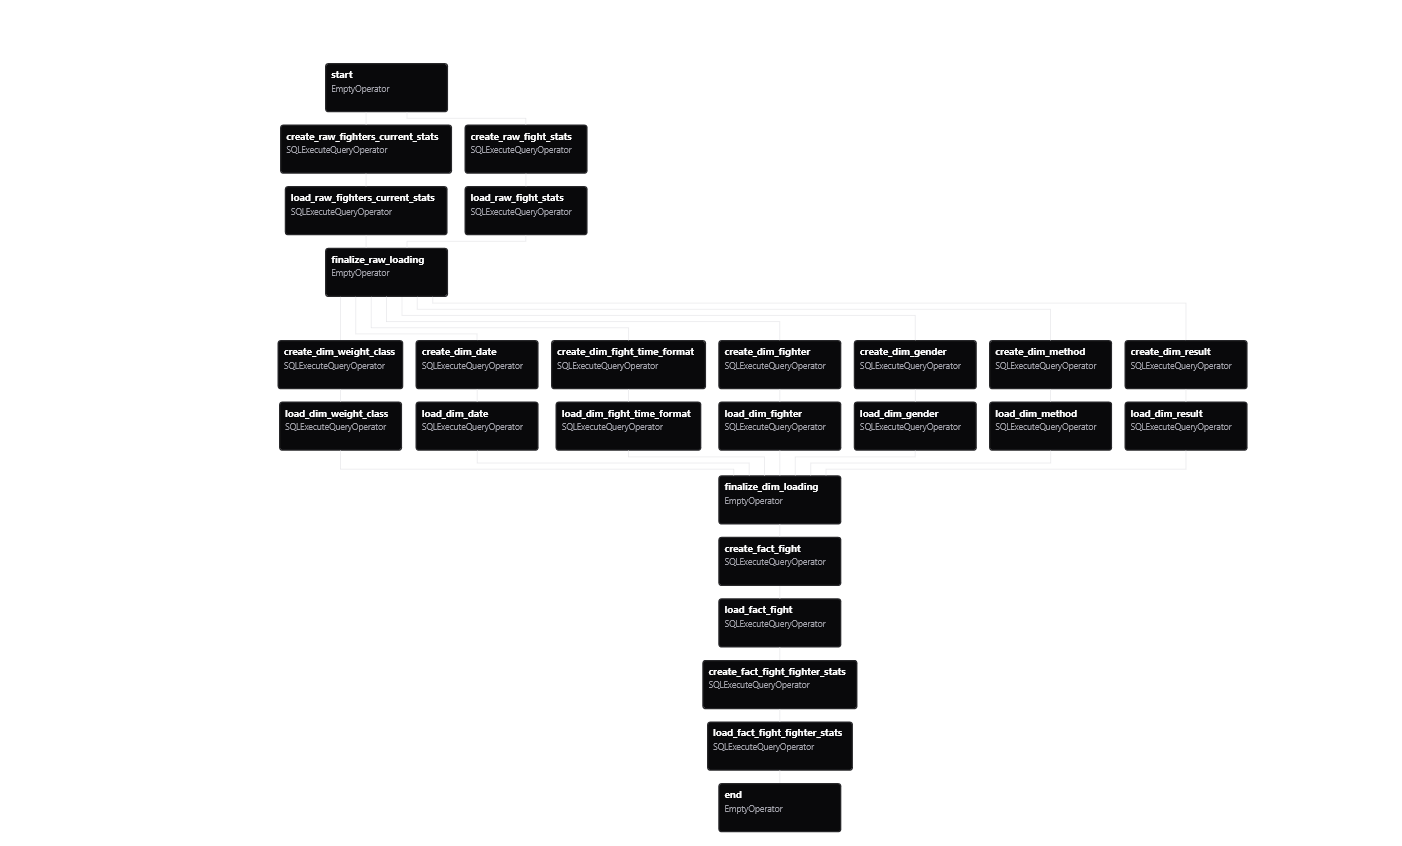
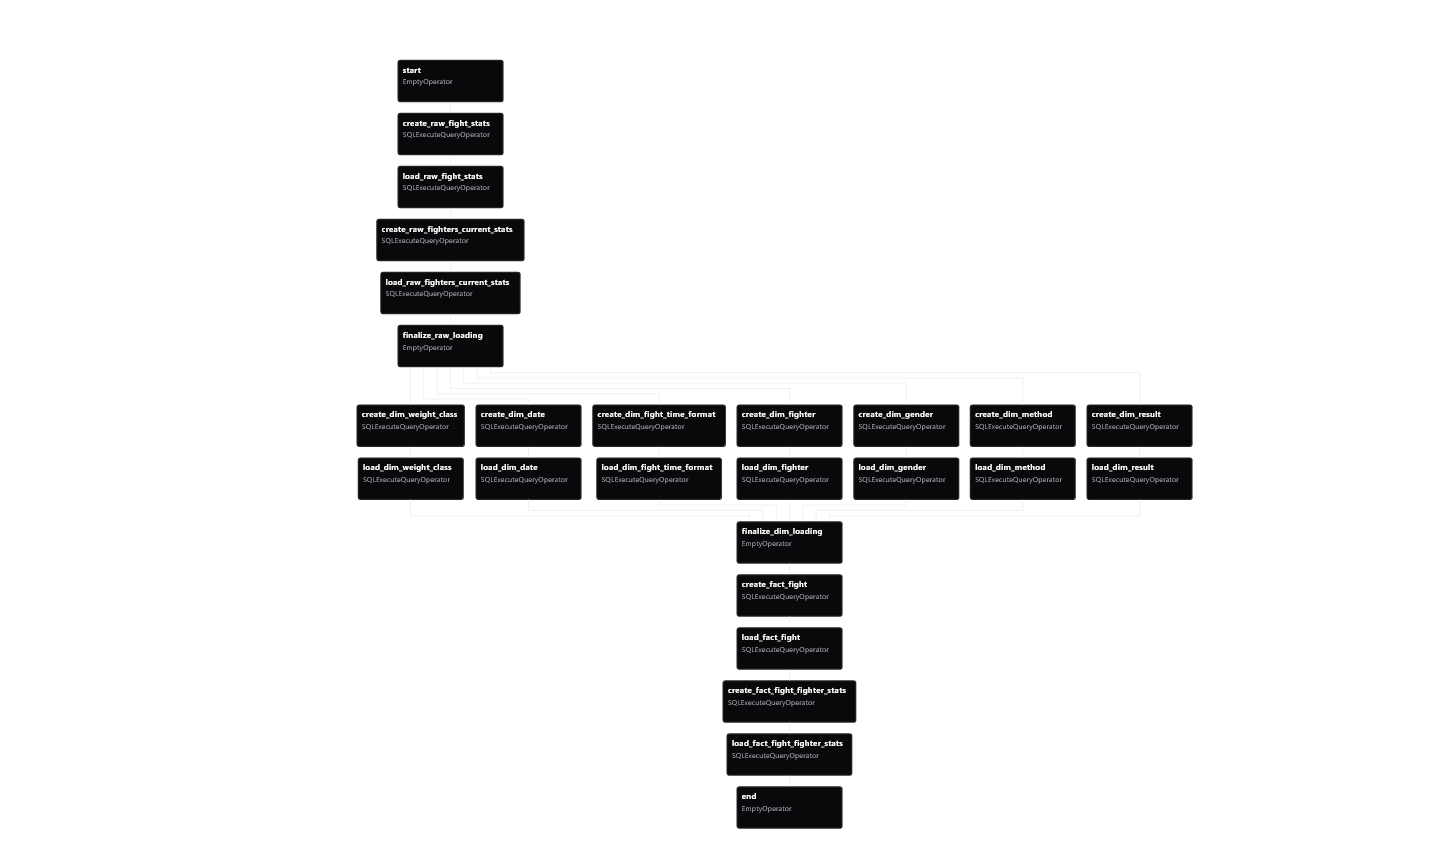
overcame js browser checking page, fixed a bug in processing

Changed region(s): [[0.184, 0.0615, 0.8894, 0.9835]]

diff --git a/project/UFCStats_Crawlers/UFCStats_Crawlers/spiders/FightersSpider.py b/project/UFCStats_Crawlers/UFCStats_Crawlers/spiders/FightersSpider.py
@@ -2,6 +2,8 @@ import os
 import string
 import scrapy
 
+from scrapy_playwright.page import PageMethod
+
 from common.minio_utils import MinioClient
 from common.schemas import CRAWLED_FIGHTER_COLUMNS
 
@@ -10,6 +12,7 @@ from UFCStats_Crawlers.spiders.parsers.fighter_parsers import parse_measurements
 
 from UFCStats_Crawlers.spiders.utils import get_fighter_id_from_url
 from UFCStats_Crawlers.spiders.utils import save_crawling_stats_to_minio
+from UFCStats_Crawlers.spiders.utils import get_playwright_kwargs, get_cookies_from_playwright_page
 
 
 class FightersSpider(scrapy.Spider):
@@ -19,7 +22,7 @@ class FightersSpider(scrapy.Spider):
     custom_settings = {
         "ITEM_PIPELINES": {
             "UFCStats_Crawlers.pipelines.UFCFightersGeneralStatsCrawlersPipeline": 300,
-        }
+        },
     }
 
     def parse(self, response):
@@ -35,10 +38,11 @@ class FightersSpider(scrapy.Spider):
             )
 
             job_id = os.path.basename(self.settings["LOG_FILE"]).split('.')[0]
+            version_id = job_id.replace(f"{self.name}_", "", 1)
 
             event_data = minio_client.read_csv_to_pandas(
                 os.environ.get("MINIO_RAW_DATA_BUCKET_NAME"),
-                os.path.join(job_id, "fight_new_actual_stats.csv"),
+                os.path.join(version_id, "fight_new_actual_stats.csv"),
                 sep='|', 
                 header=0
             )
@@ -50,15 +54,32 @@ class FightersSpider(scrapy.Spider):
             for fighter_id in all_fighter_ids:
                 next_url = f"http://ufcstats.com/fighter-details/{fighter_id}"
 
-                yield scrapy.Request(url=next_url, callback=self.fighter_parse)
+                yield scrapy.Request(
+                    url=next_url,
+                    meta=get_playwright_kwargs(
+                        playwright_context="ufcstats_fighter",
+                        selectors_to_wait=["h2.b-content__title"],
+                        include_page=False
+                    ),
+                    callback=self.fighter_parse,
+                )
         else:
             links = ['http://www.ufcstats.com/statistics/fighters?char=' + l + '&page=all'
                         for l in list(string.ascii_lowercase)]
 
             for link in links:
-                yield scrapy.Request(url=link, callback=self.letter_parse)
+                yield scrapy.Request(
+                    url=link,
+                    meta=get_playwright_kwargs(
+                        playwright_context="ufcstats_fighter",
+                        selectors_to_wait=["table.b-statistics__table"]
+                    ),
+                    callback=self.letter_parse,
+                )
 
-    def letter_parse(self, response):
+    async def letter_parse(self, response):
+        scrapy_cookies = await get_cookies_from_playwright_page(response)
+
         links = []
 
         table_rows = response.css('table.b-statistics__table tbody tr.b-statistics__table-row')
@@ -70,11 +91,35 @@ class FightersSpider(scrapy.Spider):
 
         print(len(links), response.url)
         self.crawler.stats.inc_value("fighters_expected", len(links))
-        for link in links:
-            yield scrapy.Request(url=link, callback=self.fighter_parse)
+        for i, link in enumerate(links):
+            yield scrapy.Request(
+                url=link,
+                cookies=scrapy_cookies,
+                meta={
+                    "scrapy_cookies": scrapy_cookies,
+                },
+                callback=self.fighter_parse,
+            )
 
 
     def fighter_parse(self, response):
+        if not response.meta.get("playwright", False) and "checking your browser" in response.text.lower():
+            self.logger.warning("Browser check detected. Retrying with Playwright: %s", response.url)
+
+            yield response.request.replace(
+                callback=self.fighter_parse,
+                dont_filter=True,
+                meta={
+                    **response.meta,
+                    **get_playwright_kwargs(
+                        playwright_context="ufcstats_fighter",
+                        selectors_to_wait=["h2.b-content__title"],
+                        include_page=False
+                    )
+                },
+            )
+            return
+
         final_row = []
 
         fighter_id = get_fighter_id_from_url(response.url)

diff --git a/project/UFCStats_Crawlers/UFCStats_Crawlers/spiders/EventSpider.py b/project/UFCStats_Crawlers/UFCStats_Crawlers/spiders/EventSpider.py
@@ -2,6 +2,8 @@ from datetime import datetime
 import scrapy
 import os
 
+from scrapy_playwright.page import PageMethod
+
 from common.schemas import get_crawled_fight_columns
 
 from UFCStats_Crawlers.spiders.parsers.fight_parsers import process_event_name, process_bout_description
@@ -10,11 +12,12 @@ from UFCStats_Crawlers.spiders.parsers.fight_parsers import get_fight_result, pa
 from UFCStats_Crawlers.spiders.parsers.fight_parsers import parse_outcome_section
 
 from UFCStats_Crawlers.spiders.utils import get_fight_id_from_url, save_crawling_stats_to_minio
+from UFCStats_Crawlers.spiders.utils import get_playwright_kwargs, get_cookies_from_playwright_page
 
 
 class EventSpider(scrapy.Spider):
 	name = 'event_spider'
-	start_urls = ['http://www.ufcstats.com/statistics/events/completed?page=all']
+	start_urls = ['']
 
 	custom_settings = {
         "ITEM_PIPELINES": {
@@ -22,7 +25,21 @@ class EventSpider(scrapy.Spider):
         }
     }
 
-	def parse(self, response):
+	def start_requests(self):
+		yield scrapy.Request(
+            url="http://www.ufcstats.com/statistics/events/completed?page=all",
+            meta=get_playwright_kwargs(
+				playwright_context="ufcstats",
+				selectors_to_wait=["tr.b-statistics__table-row"]
+			),
+            callback=self.parse,
+        )
+
+
+
+	async def parse(self, response):
+		scrapy_cookies = await get_cookies_from_playwright_page(response)
+
 		self.is_incremental = False if self.is_incremental.lower() == "false" else True
 
 		self.logger.debug(f'Will spider run incrementally: {bool(self.is_incremental)}')
@@ -57,11 +74,40 @@ class EventSpider(scrapy.Spider):
 		self.crawler.stats.inc_value("events_expected", len(event_links))
 
 		for link, date in zip(event_links, event_dates, strict=True):
-			yield scrapy.Request(url=link, callback=self.event_parse, meta={'event_date': date})
+			yield scrapy.Request(
+				url=link,
+				cookies=scrapy_cookies,
+				meta={
+					"event_date": date,
+					"scrapy_cookies": scrapy_cookies
+				},
+				callback=self.event_parse,
+			)
 
 
 
-	def event_parse(self, response):
+	async def event_parse(self, response):
+		if not response.meta.get("playwright", False) and "checking your browser" in response.text.lower():
+			self.logger.warning("Browser check detected. Retrying with Playwright: %s", response.url)
+
+			yield response.request.replace(
+				callback=self.event_parse,
+				dont_filter=True,
+				meta={
+					**response.meta,
+					**get_playwright_kwargs(
+						playwright_context="ufcstats",
+						selectors_to_wait=["div.l-page__container"]
+					)
+				},
+			)
+			return
+
+		if response.meta.get("playwright", False):
+			scrapy_cookies = await get_cookies_from_playwright_page(response)
+		else:
+			scrapy_cookies = response.meta.get("scrapy_cookies")
+
 		event_name_selector = 'div.l-page__container h2.b-content__title span::text'
 
 		event_name = response.css(event_name_selector).get()
@@ -79,14 +125,35 @@ class EventSpider(scrapy.Spider):
 		self.crawler.stats.inc_value("fights_expected", len(rows))
 
 		for link in rows:
-			yield scrapy.Request(url = link, callback=self.fight_parse,
-								meta={
-									'event_date': response.meta.get('event_date'),
-									'fight_id': get_fight_id_from_url(link)
-								})
+			yield scrapy.Request(
+				url=link,
+				cookies=scrapy_cookies,
+				meta={
+					"event_date": response.meta.get('event_date'),
+					"fight_id": get_fight_id_from_url(link),
+				},
+				callback=self.fight_parse,
+			)
 
 
-	def fight_parse(self,response):
+	def fight_parse(self, response):
+		if not response.meta.get("playwright", False) and "checking your browser" in response.text.lower():
+			self.logger.warning("Browser check detected. Retrying with Playwright: %s", response.url)
+
+			yield response.request.replace(
+				callback=self.fight_parse,
+				dont_filter=True,
+				meta={
+					**response.meta,
+					**get_playwright_kwargs(
+						playwright_context="ufcstats",
+						selectors_to_wait=["h2.b-content__title"],
+						include_page=False
+					)
+				},
+			)
+			return
+		
 		fighter1_info = []
 		fighter2_info = []
 		fight_info = []

diff --git a/project/UFCStats_Crawlers/UFCStats_Crawlers/settings.py b/project/UFCStats_Crawlers/UFCStats_Crawlers/settings.py
@@ -29,7 +29,10 @@ ROBOTSTXT_OBEY = False
 # See also autothrottle settings and docs
 DOWNLOAD_DELAY = 0
 # The download delay setting will honor only one of:
-CONCURRENT_REQUESTS_PER_DOMAIN = 8
+PLAYWRIGHT_MAX_CONTEXTS = 2
+
+CONCURRENT_REQUESTS = 4
+# CONCURRENT_REQUESTS_PER_DOMAIN = 8
 #CONCURRENT_REQUESTS_PER_IP = 16
 
 # Disable cookies (enabled by default)
@@ -49,6 +52,65 @@ CONCURRENT_REQUESTS_PER_DOMAIN = 8
 #SPIDER_MIDDLEWARES = {
 #    'UFCStats_Crawlers.middlewares.UFCStatsCrawlersSpiderMiddleware': 543,
 #}
+
+PLAYWRIGHT_LAUNCH_OPTIONS = {
+    "headless": True,
+    "args": [
+        "--disable-dev-shm-usage",
+        "--disable-gpu",
+        "--disable-background-timer-throttling",
+        "--disable-backgrounding-occluded-windows",
+        "--disable-renderer-backgrounding",
+    ],
+}
+
+DOWNLOAD_HANDLERS = {
+    "http": "scrapy_playwright.handler.ScrapyPlaywrightDownloadHandler",
+    "https": "scrapy_playwright.handler.ScrapyPlaywrightDownloadHandler",
+}
+
+TWISTED_REACTOR = "twisted.internet.asyncioreactor.AsyncioSelectorReactor"
+
+def should_abort_request(request):
+    url = request.url
+    resource_type = request.resource_type
+
+    # Always keep main documents
+    if resource_type == "document":
+        return False
+
+    # Keep UFCStats browser-check request
+    if "ufcstats.com/__c" in url:
+        return False
+
+    # Kill visual assets
+    if resource_type in {"image", "font", "stylesheet", "media"}:
+        return True
+
+    # Kill analytics/tracking
+    if any(domain in url for domain in [
+        "google-analytics.com",
+        "googletagmanager.com",
+        "region1.google-analytics.com",
+    ]):
+        return True
+
+    # Probably safe to kill after testing
+    if any(url_part in url for url_part in [
+        "code.jquery.com",
+        "ajax.googleapis.com/ajax/libs/jquery",
+        "ufcstats.com/js/vendor/",
+        "ufcstats.com/js/plugins.js",
+        "ufcstats.com/js/main.js",
+    ]):
+        return True
+
+    return False
+
+PLAYWRIGHT_ABORT_REQUEST = should_abort_request
+
+PLAYWRIGHT_DEFAULT_NAVIGATION_TIMEOUT = 30_000
+PLAYWRIGHT_RESTART_DISCONNECTED_BROWSER = True
 
 # Enable or disable downloader middlewares
 # See https://doc.scrapy.org/en/latest/topics/downloader-middleware.html
@@ -92,4 +154,10 @@ DOWNLOADER_MIDDLEWARES = {
 HTTPERROR_ALLOW_ALL  = True
 RETRY_ENABLED = True
 RETRY_TIMES = 8
-RETRY_HTTP_CODES = [500,502,503,504,522,524,408,404,429,400]
+RETRY_HTTP_CODES = [500, 502, 503, 504, 522, 524, 408, 404, 429, 400]
+
+from scrapy.settings.default_settings import RETRY_EXCEPTIONS as DEFAULT_RETRY_EXCEPTIONS
+
+RETRY_EXCEPTIONS = list(DEFAULT_RETRY_EXCEPTIONS) + [
+    "playwright._impl._errors.TimeoutError",
+]

diff --git a/project/UFCStats_Crawlers/UFCStats_Crawlers/spiders/utils.py b/project/UFCStats_Crawlers/UFCStats_Crawlers/spiders/utils.py
@@ -2,8 +2,10 @@ from copy import deepcopy
 import os
 import re
 from pathlib import Path
+from typing import Any
 from urllib.parse import urljoin
 import scrapy
+from scrapy_playwright.page import PageMethod
 
 from common.minio_utils import MinioClient
 
@@ -21,6 +23,43 @@ def get_fight_id_from_url(url: str) -> str:
 
     return id.strip()
 	
+
+def get_playwright_kwargs(
+    playwright_context: str,
+    selectors_to_wait: list[str],
+    *,
+    include_page: bool = True,
+) -> dict[str, Any]:
+    return {
+        "playwright": True,
+        "playwright_include_page": include_page,
+        "playwright_context": playwright_context,
+        "playwright_page_methods": [
+            PageMethod(
+                "wait_for_selector", 
+                selector,
+                state="attached",
+            )
+            for selector in selectors_to_wait
+        ],
+        "playwright_page_goto_kwargs": {
+            "wait_until": "commit",
+        }
+    }
+
+
+async def get_cookies_from_playwright_page(response):
+    page = response.meta["playwright_page"]
+
+    playwright_cookies = await page.context.cookies()
+    await page.close()
+
+    return {
+        cookie["name"]: cookie["value"]
+        for cookie in playwright_cookies
+        if cookie["domain"] in {"www.ufcstats.com", ".ufcstats.com"}
+    }
+
 
 def log_path_to_scrapyd_url(log_path: str) -> str:
     LOGS_DIR = Path("/app/scrapyd/logs")

diff --git a/docker/README.md b/docker/README.md
@@ -49,6 +49,7 @@ docker exec -it docker-scrapy-server-1 bash
 - Install the necessary dependencies:
 ```
 pip install -r /requirements.txt
+playwright install --with-deps
 ```
 - Deploy the Spiders that are inside the `UFCStats_Crawlers` project:
 ```
